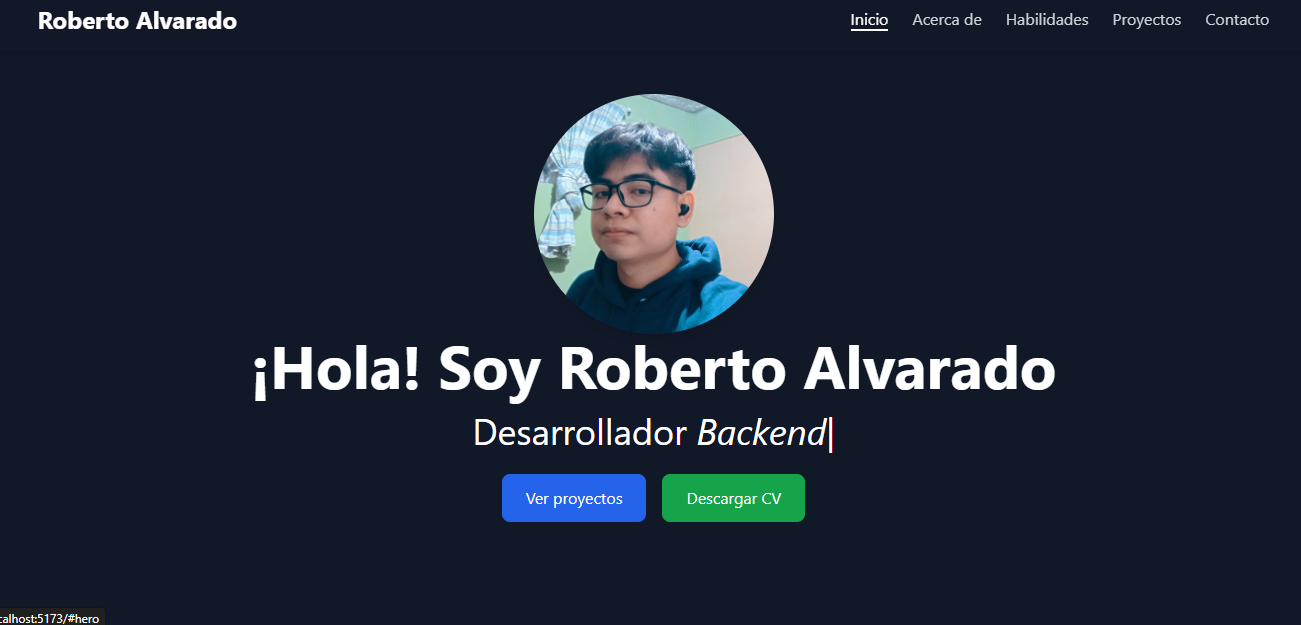
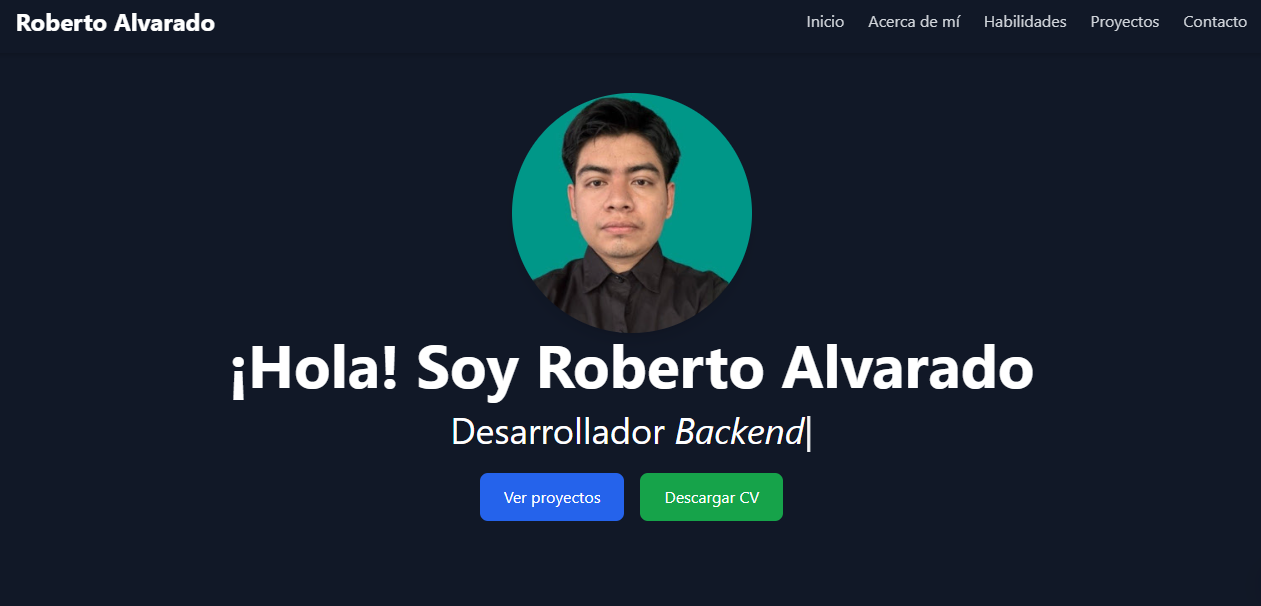
:zap: Agregando Experiencia laboral y actualizando conocimientos

diff --git a/src/components/About.jsx b/src/components/About.jsx
@@ -1,30 +1,117 @@
 import perfil from "../assets/perfil.jpg";
 
-const About = () => {
-  return (
-    <section className="w-full min-h-fit flex flex-col md:flex-row items-center justify-center px-6 py-16 gap-10 bg-gray-900">
-      <img
-        src={perfil}
-        alt="Foto de perfil"
-        className="w-40 h-40 md:w-60 md:h-60 rounded-full shadow-lg"
-      />
-      <div className="text-center md:text-left max-w-3xl">
-        <h2 className="text-4xl font-bold mb-4 text-blue-500">Acerca de mí</h2>
-        <p className="text-lg text-gray-300">
-          Soy <strong>Ingeniero Informático</strong> y desarrollador <strong>Full Stack</strong>,
-          con experiencia en el desarrollo de aplicaciones web completas, desde la creación de
-          <strong> APIs REST</strong> y lógica de negocio en el <strong>back-end</strong>, hasta la
-          implementación de interfaces funcionales y responsivas en el <strong>front-end</strong>.
-          <br/><br/>
-          Trabajo aplicando buenas prácticas de desarrollo, principios <strong>SOLID</strong> y
-          metodologías <strong>ágiles (Scrum)</strong>, enfocado en construir soluciones
-          <strong> escalables, seguras y mantenibles</strong>.
-        </p>
+// Logo de Empresa
+import serfinsaLogo from "../assets/laboral/serfinsa.png";
+import guatemalaDigitalLogo from "../assets/laboral/guatemaladigital.png";
 
+const experiences = [
+  {
+    company: "GuatemalaDigital / ElSalvadorYa",
+    position: "Analista Desarrollador React",
+    period: "Diciembre 2023 – Abril 2025",
+    logo: guatemalaDigitalLogo,
+    description:
+      "Formé parte del equipo de desarrollo web, dando soporte y creando nuevas funcionalidades para sistemas internos, principalmente del área de contabilidad. Trabajé en el desarrollo frontend con React, optimizando la experiencia de usuario y procesos internos. Posteriormente participé en el mantenimiento y evolución de APIs backend con Java Spring Boot y C# .NET, así como en la gestión de bases de datos SQL Server y MongoDB, incluyendo procedimientos almacenados y lógica de negocio.",
+  },
+  {
+    company: "Empresa Financiera Serfinsa",
+    position: "Desarrollador Operativo",
+    period: "Abril 2025 – Actualidad",
+    logo: serfinsaLogo,
+    description:
+      "Participé en el desarrollo y mantenimiento de sistemas empresariales orientados a la automatización de procesos financieros. He trabajado en la creación de APIs RESTful con Java y Spring Boot, integrando seguridad mediante JWT y LDAP, así como en el diseño de soluciones para el análisis de transacciones. Además, desarrollé procedimientos almacenados en SQL Server y colaboré en tareas frontend utilizando Angular y Next.js, trabajando bajo metodología ágil Scrum.",
+  },
+];
+
+const About = () => {
+  const currentYear = new Date().getFullYear();
+
+  return (
+    <section className="w-full min-h-fit flex flex-col items-center justify-center px-6 py-16 bg-gray-900">
+      {/* Sección Acerca de mí */}
+      <div className="flex flex-col md:flex-row items-center justify-center gap-10 mb-16 max-w-6xl">
+        <img
+          src={perfil}
+          alt="Foto de perfil"
+          className="w-40 h-40 md:w-60 md:h-60 rounded-full shadow-lg"
+        />
+        <div className="text-center md:text-left max-w-3xl">
+          <h2 className="text-4xl font-bold mb-4 text-white">Acerca de mí</h2>
+          <p className="text-lg text-gray-300">
+            Soy <strong>Ingeniero Informático</strong> y desarrollador <strong>Full Stack</strong>,
+            con experiencia en el desarrollo de aplicaciones web completas, desde la creación de
+            <strong> APIs REST</strong> y lógica de negocio en el <strong>back-end</strong>, hasta la
+            implementación de interfaces funcionales y responsivas en el <strong>front-end</strong>.
+            <br/><br/>
+            Trabajo aplicando buenas prácticas de desarrollo, principios <strong>SOLID</strong> y
+            metodologías <strong>ágiles (Scrum)</strong>, enfocado en construir soluciones
+            <strong> escalables, seguras y mantenibles</strong>.
+          </p>
+        </div>
+      </div>
+
+      {/* Sección Experiencia Laboral */}
+      <div className="w-full max-w-5xl">
+        <h2 className="text-4xl font-bold mb-12 text-white text-center">Experiencia Laboral</h2>
+        
+        <div className="relative">
+          <div className="absolute left-0 md:left-6 top-0 bottom-0 w-0.5 bg-gradient-to-b from-blue-400 via-blue-500 to-blue-600"></div>
+          
+          <div className="space-y-12">
+            {experiences.map((exp, index) => (
+              <div key={index} className="relative pl-12 md:pl-20">
+                <div className="absolute left-0 md:left-6 top-2 w-3 h-3 bg-blue-500 rounded-full border-4 border-gray-900 transform -translate-x-1"></div>
+                
+                <div className="bg-gradient-to-br from-gray-800 to-gray-900 rounded-xl shadow-2xl border border-gray-700 hover:border-blue-500 transition-all duration-300 hover:shadow-blue-500/20 overflow-hidden">
+                  
+                  {/* Header con logo y empresa */}
+                  <div className="bg-gray-800/50 p-6 border-b border-gray-700">
+                    <div className="flex items-center gap-4 mb-3">
+                      <img 
+                        src={exp.logo} 
+                        alt={exp.company} 
+                        className="w-14 h-14 md:w-16 md:h-16 rounded-full object-contain bg-white p-2 shadow-lg"
+                      />
+                      <div className="flex-1">
+                        <h3 className="text-xl md:text-2xl font-bold text-blue-400 mb-1">
+                          {exp.company}
+                        </h3>
+                        <p className="text-base md:text-lg font-semibold text-white">
+                          {exp.position}
+                        </p>
+                      </div>
+                    </div>
+                    
+                    <div className="flex items-center gap-2 text-gray-400">
+                      <svg className="w-4 h-4 flex-shrink-0" fill="currentColor" viewBox="0 0 20 20">
+                        <path fillRule="evenodd" d="M6 2a1 1 0 00-1 1v1H4a2 2 0 00-2 2v10a2 2 0 002 2h12a2 2 0 002-2V6a2 2 0 00-2-2h-1V3a1 1 0 10-2 0v1H7V3a1 1 0 00-1-1zm0 5a1 1 0 000 2h8a1 1 0 100-2H6z" clipRule="evenodd" />
+                      </svg>
+                      <span className="text-sm md:text-base">{exp.period}</span>
+                    </div>
+                  </div>
+                  <div className="p-6">
+                    <p className="text-gray-300 leading-relaxed text-justify">
+                      {exp.description}
+                    </p>
+                  </div>
+                </div>
+              </div>
+            ))}
+
+            <div className="relative pl-12 md:pl-20">
+              <div className="absolute left-0 md:left-6 top-2 w-4 h-4 bg-blue-400 rounded-full border-4 border-gray-900 transform -translate-x-1.5 animate-pulse"></div>
+              <div className="inline-flex items-center gap-2 bg-blue-600 text-white px-4 py-2 rounded-full font-semibold shadow-lg">
+                <svg className="w-4 h-4" fill="currentColor" viewBox="0 0 20 20">
+                  <path fillRule="evenodd" d="M10 18a8 8 0 100-16 8 8 0 000 16zm1-12a1 1 0 10-2 0v4a1 1 0 00.293.707l2.828 2.829a1 1 0 101.415-1.415L11 9.586V6z" clipRule="evenodd" />
+                </svg>
+                <span>{currentYear}</span>
+              </div>
+            </div>
+          </div>
+        </div>
       </div>
     </section>
   );
 };
 
 export default About;
-

diff --git a/src/components/Skills.jsx b/src/components/Skills.jsx
@@ -19,6 +19,7 @@ import sqlServerIcon from "../assets/icons/sql-server.svg";
 import mongoIcon from "../assets/icons/mongodb.svg";
 import postgresIcon from "../assets/icons/postgresql.svg";
 import mysqlIcon from "../assets/icons/mysql.svg";
+import oracleIcon from "../assets/icons/oracle.svg"
 
 import vsIcon from "../assets/icons/visual-studio.svg";
 import vscodeIcon from "../assets/icons/vscode.svg";
@@ -28,10 +29,13 @@ import eclipseIcon from "../assets/icons/eclipse.svg";
 import githubIcon from "../assets/icons/github.svg";
 import gitlabIcon from "../assets/icons/gitlab.svg";
 import slackIcon from "../assets/icons/slack.svg";
+import insomniaIcon from "../assets/icons/insomnia.svg"
+import jiraIcon from "../assets/icons/jira.png"
+import intellijIcon from "../assets/icons/intellij.svg"
 
 const skills = [
   { name: "React", icon: reactIcon },
-  { name: "Angulr", icon: angularIcon },
+  { name: "Angular", icon: angularIcon },
   { name: "Node.js", icon: nodeIcon },
   { name: "Next.js", icon: nextIcon },
   { name: "NestJS", icon: nestIcon },
@@ -52,17 +56,21 @@ const databases = [
   { name: "MongoDB", icon: mongoIcon },
   { name: "PostgreSQL", icon: postgresIcon },
   { name: "MySQL", icon: mysqlIcon },
+  { name: "Oracle", icon: oracleIcon },
 ];
 
 const tools = [
   { name: "Visual Studio", icon: vsIcon },
   { name: "VS Code", icon: vscodeIcon },
   { name: "Postman", icon: postmanIcon },
+  { name: "Insomnia", icon: insomniaIcon },
+  { name: "Jira", icon: jiraIcon },
   { name: "Docker", icon: dockerIcon },
   { name: "Eclipse", icon: eclipseIcon },
   { name: "GitHub", icon: githubIcon },
   { name: "GitLab", icon: gitlabIcon },
   { name: "Slack", icon: slackIcon },
+  { name: "IntelliJ IDEA", icon: intellijIcon },
 ];
 
 const SkillSection = ({ title, items }) => (

diff --git a/src/components/Hero.jsx b/src/components/Hero.jsx
@@ -29,7 +29,7 @@ const Hero = () => {
 
   const handleDownloadCV = () => {
     const link = document.createElement("a");
-    link.href = "https://drive.google.com/uc?export=download&id=1ohkzHjCedrAgGmEmHRhyFw1sZ9fcY6R5"; 
+    link.href = "https://drive.google.com/uc?export=download&id=1nf3EBBQ1DvSq2XVApu3bqWljk1IJmknS"; 
     link.download = "CV_Roberto_Alvarado.pdf"; 
     link.click();
   };

diff --git a/src/components/Contact.jsx b/src/components/Contact.jsx
@@ -97,7 +97,7 @@ const Contact = () => {
 
           <div className="flex items-center gap-3">
             <FaPhone className="text-green-500 text-2xl" />
-            <span className="text-gray-300">70248234 - 68529109</span>
+            <span className="text-gray-300">70248234</span>
           </div>
 
           <div className="flex items-center gap-3">
